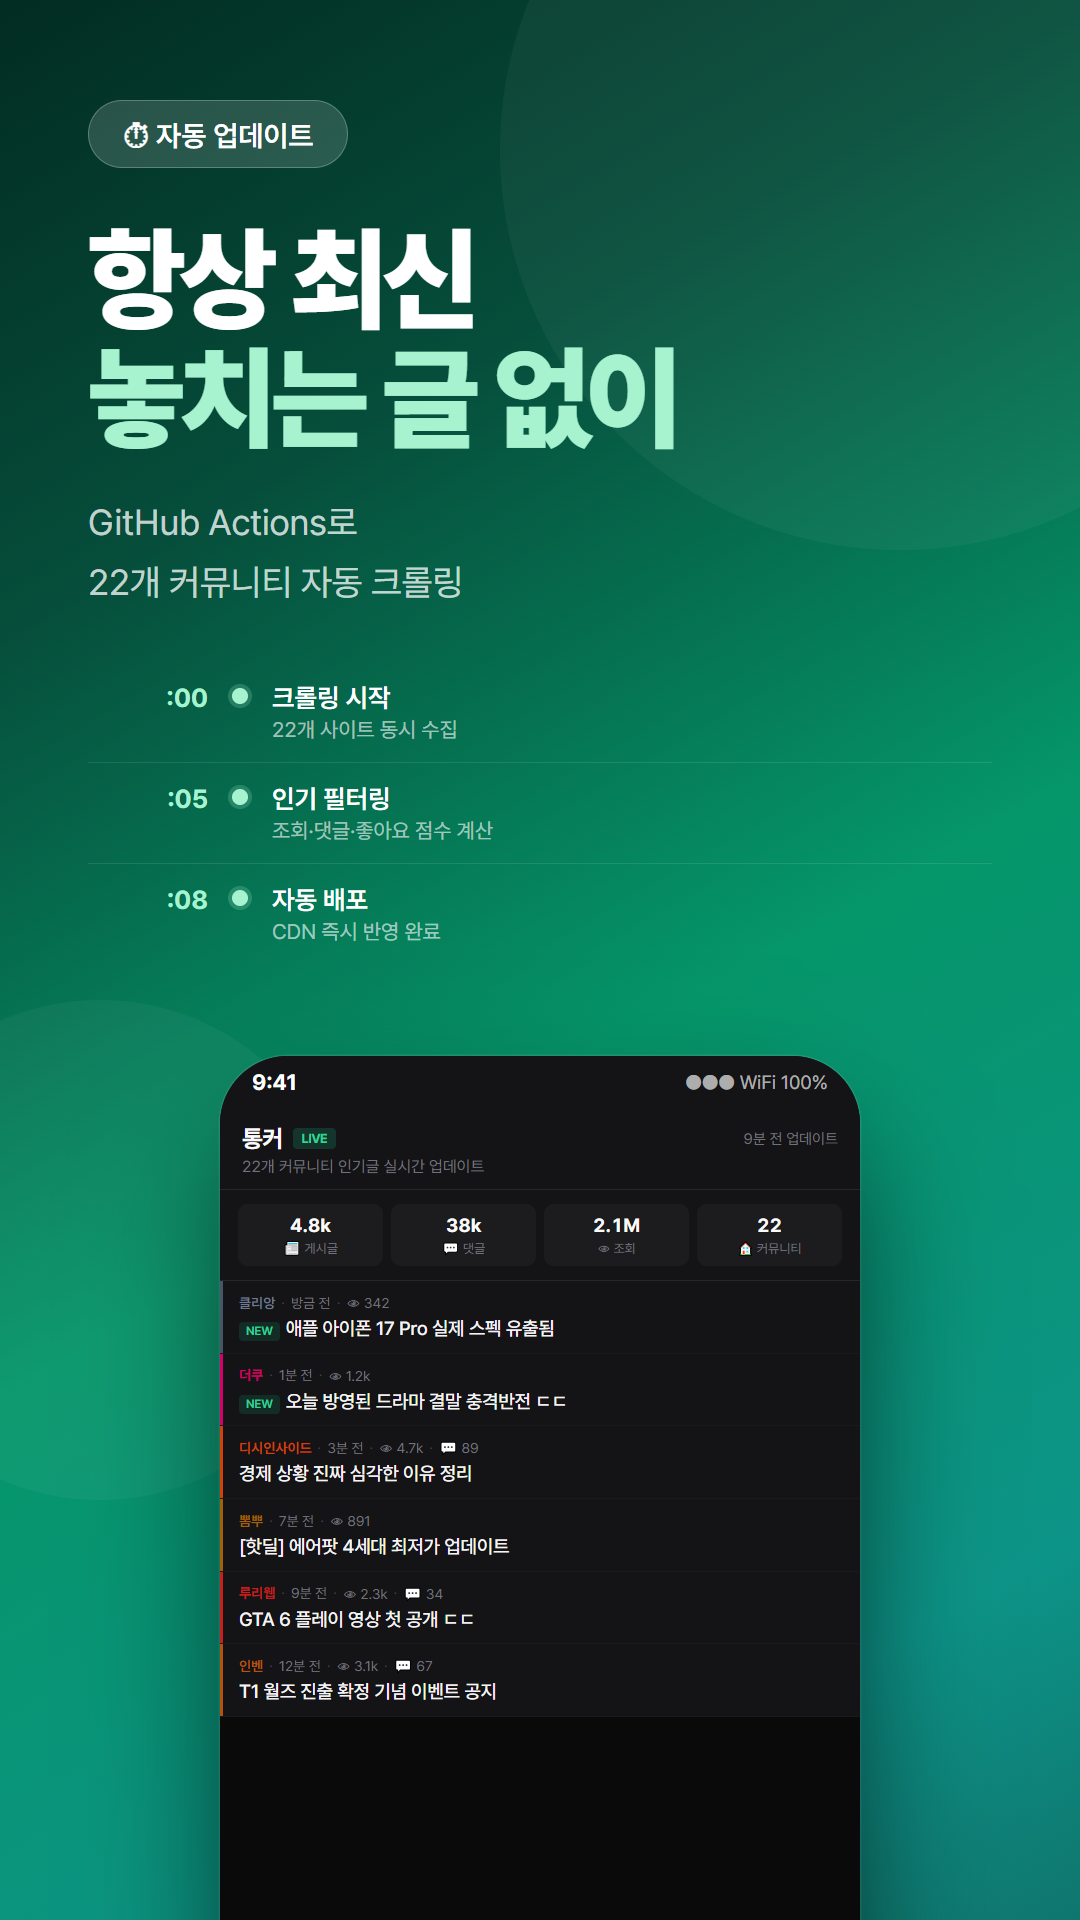
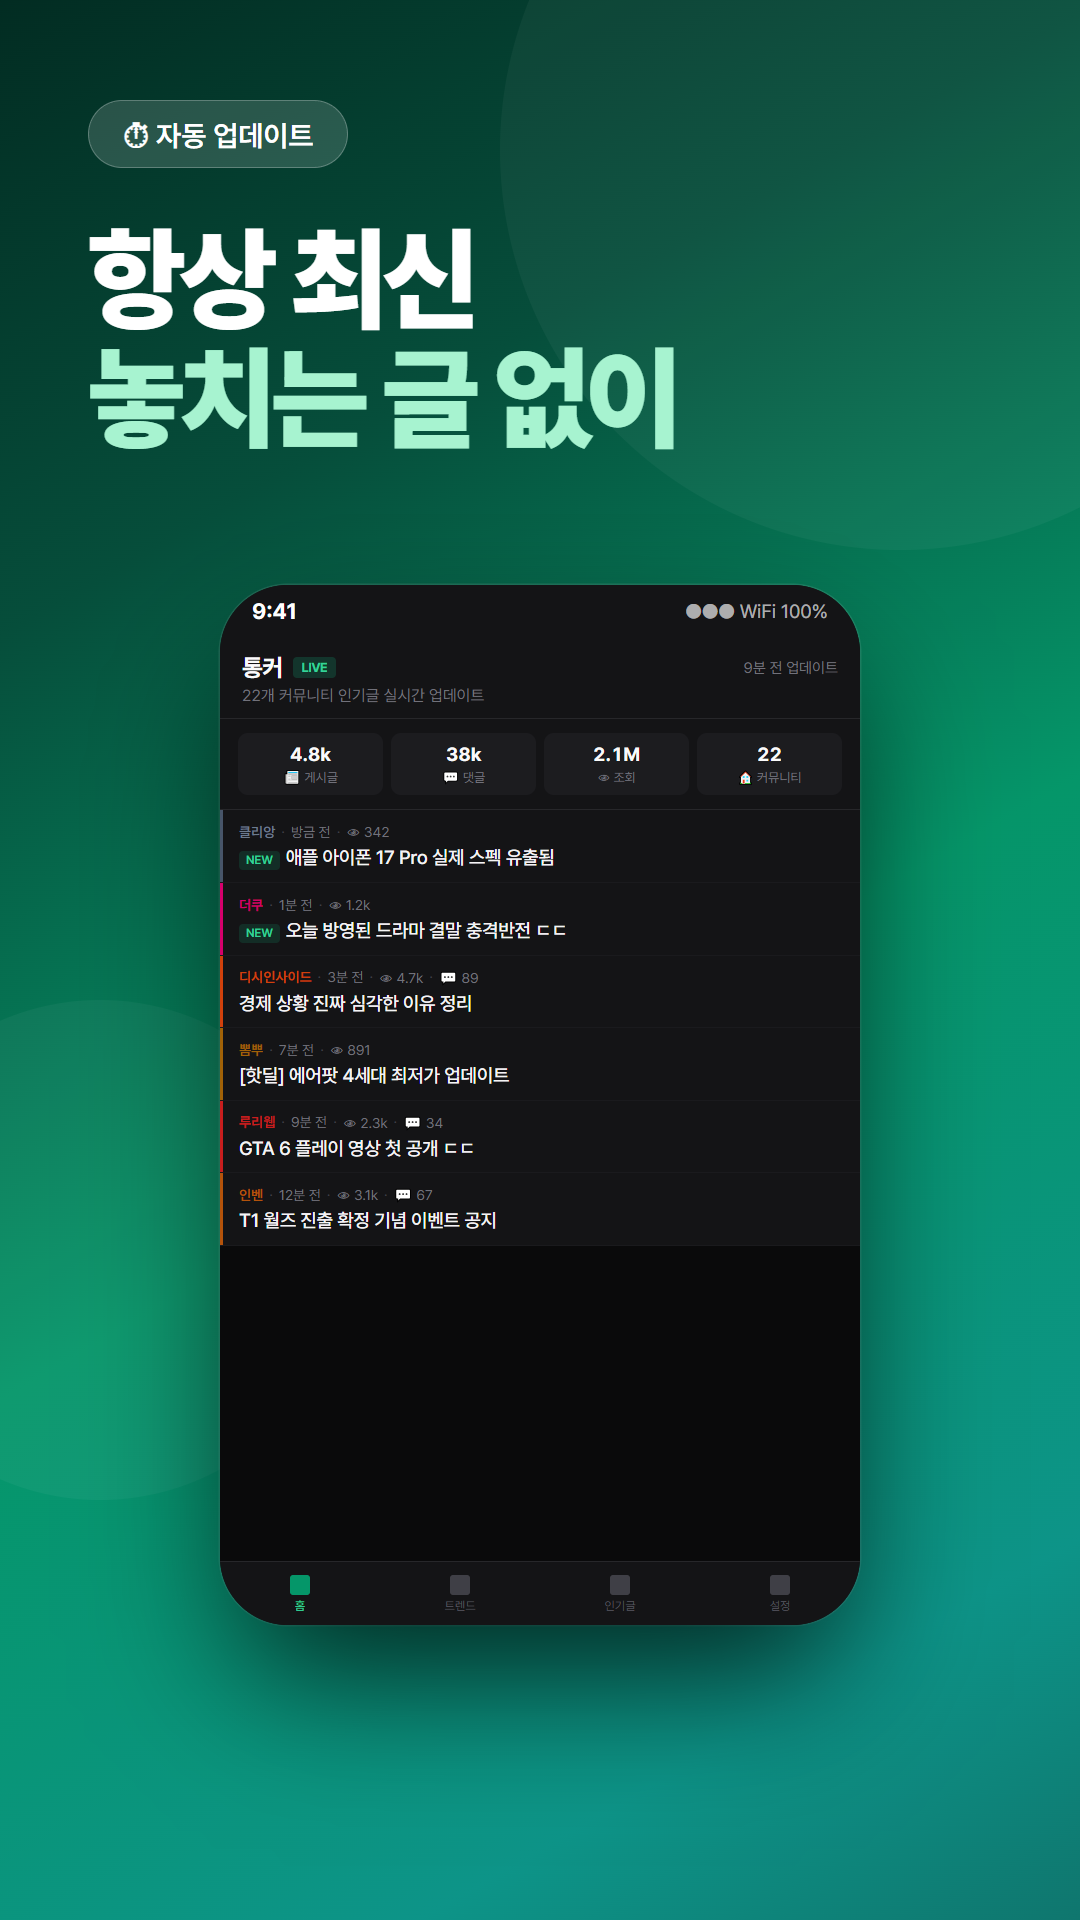
chore: simplify sc4 - remove subtitle and timeline, keep headline and phone

Changed region(s): [[0.0917, 0.25, 0.8556, 1.0], [0.55, 0.625, 0.6111, 0.6562], [0.7028, 0.625, 0.7333, 0.6562]]

diff --git a/store-assets/sc4.html b/store-assets/sc4.html
@@ -71,24 +71,6 @@ h1 em{font-style:normal;color:#a7f3d0;}
 <div class="top">
   <div class="chip">⏱ 자동 업데이트</div>
   <h1>항상 최신<br><em>놓치는 글 없이</em></h1>
-  <p class="desc">GitHub Actions로<br>22개 커뮤니티 자동 크롤링</p>
-  <div class="timeline">
-    <div class="tl-item">
-      <div class="tl-time"><div class="tl-t">:00</div></div>
-      <div class="tl-dot"></div>
-      <div class="tl-content"><div class="tl-label">크롤링 시작</div><div class="tl-desc">22개 사이트 동시 수집</div></div>
-    </div>
-    <div class="tl-item">
-      <div class="tl-time"><div class="tl-t">:05</div></div>
-      <div class="tl-dot"></div>
-      <div class="tl-content"><div class="tl-label">인기 필터링</div><div class="tl-desc">조회·댓글·좋아요 점수 계산</div></div>
-    </div>
-    <div class="tl-item">
-      <div class="tl-time"><div class="tl-t">:08</div></div>
-      <div class="tl-dot"></div>
-      <div class="tl-content"><div class="tl-label">자동 배포</div><div class="tl-desc">CDN 즉시 반영 완료</div></div>
-    </div>
-  </div>
 </div>
 <div class="phone-wrap"><div class="phone">
   <div class="sbar"><span class="sbar-t">9:41</span><span class="sbar-r">●●● WiFi 100%</span></div>
